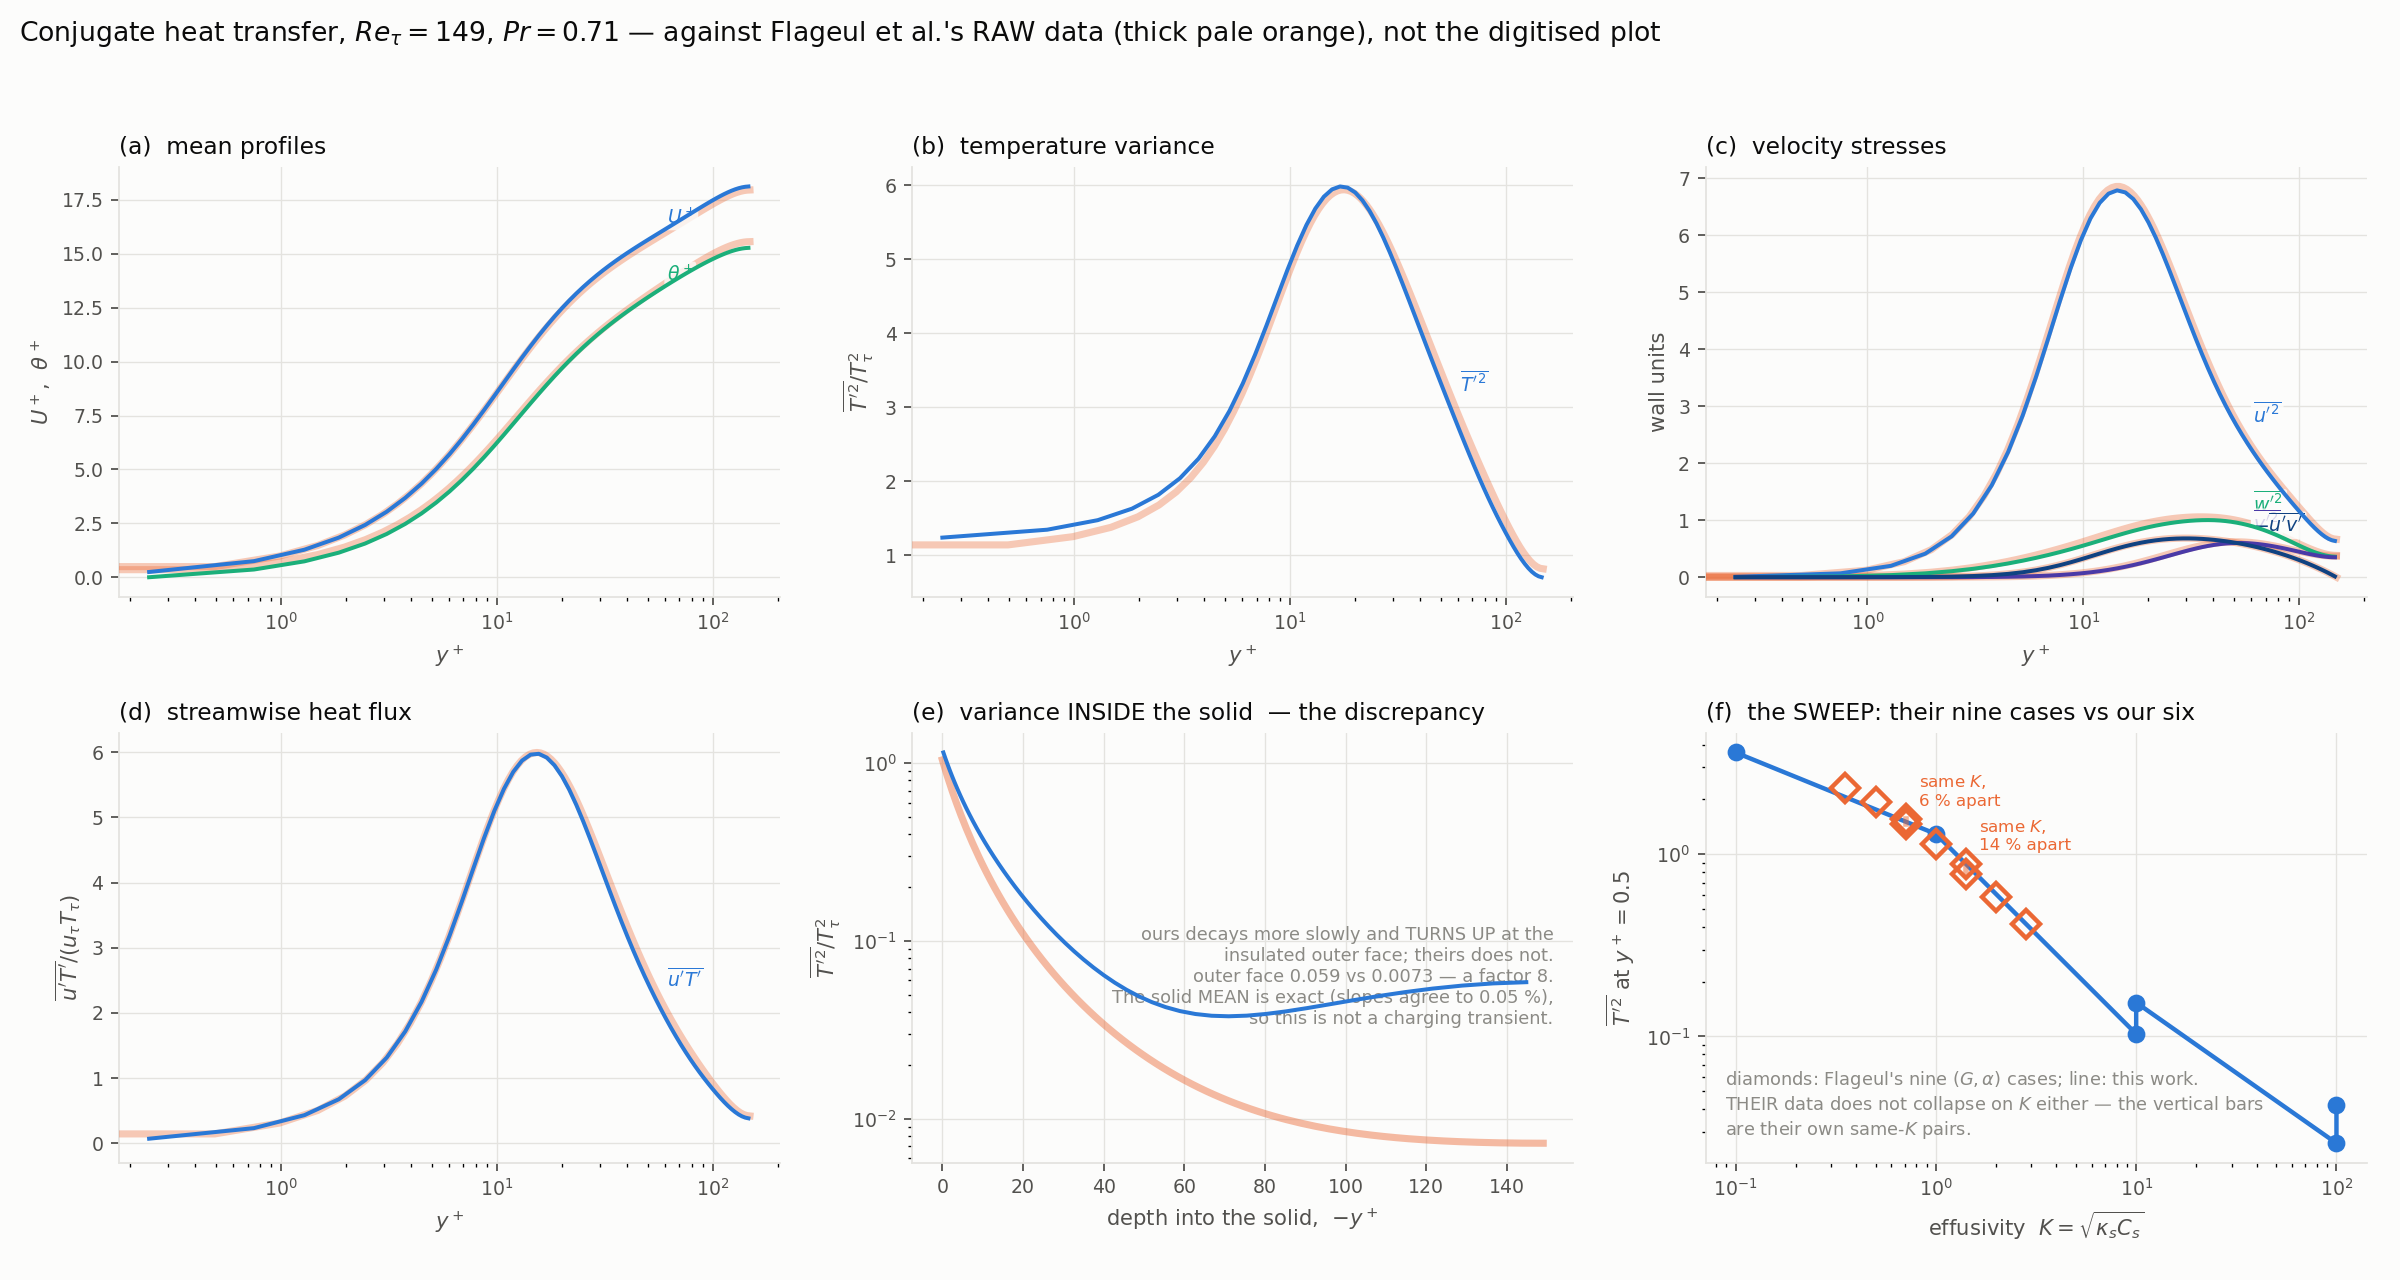
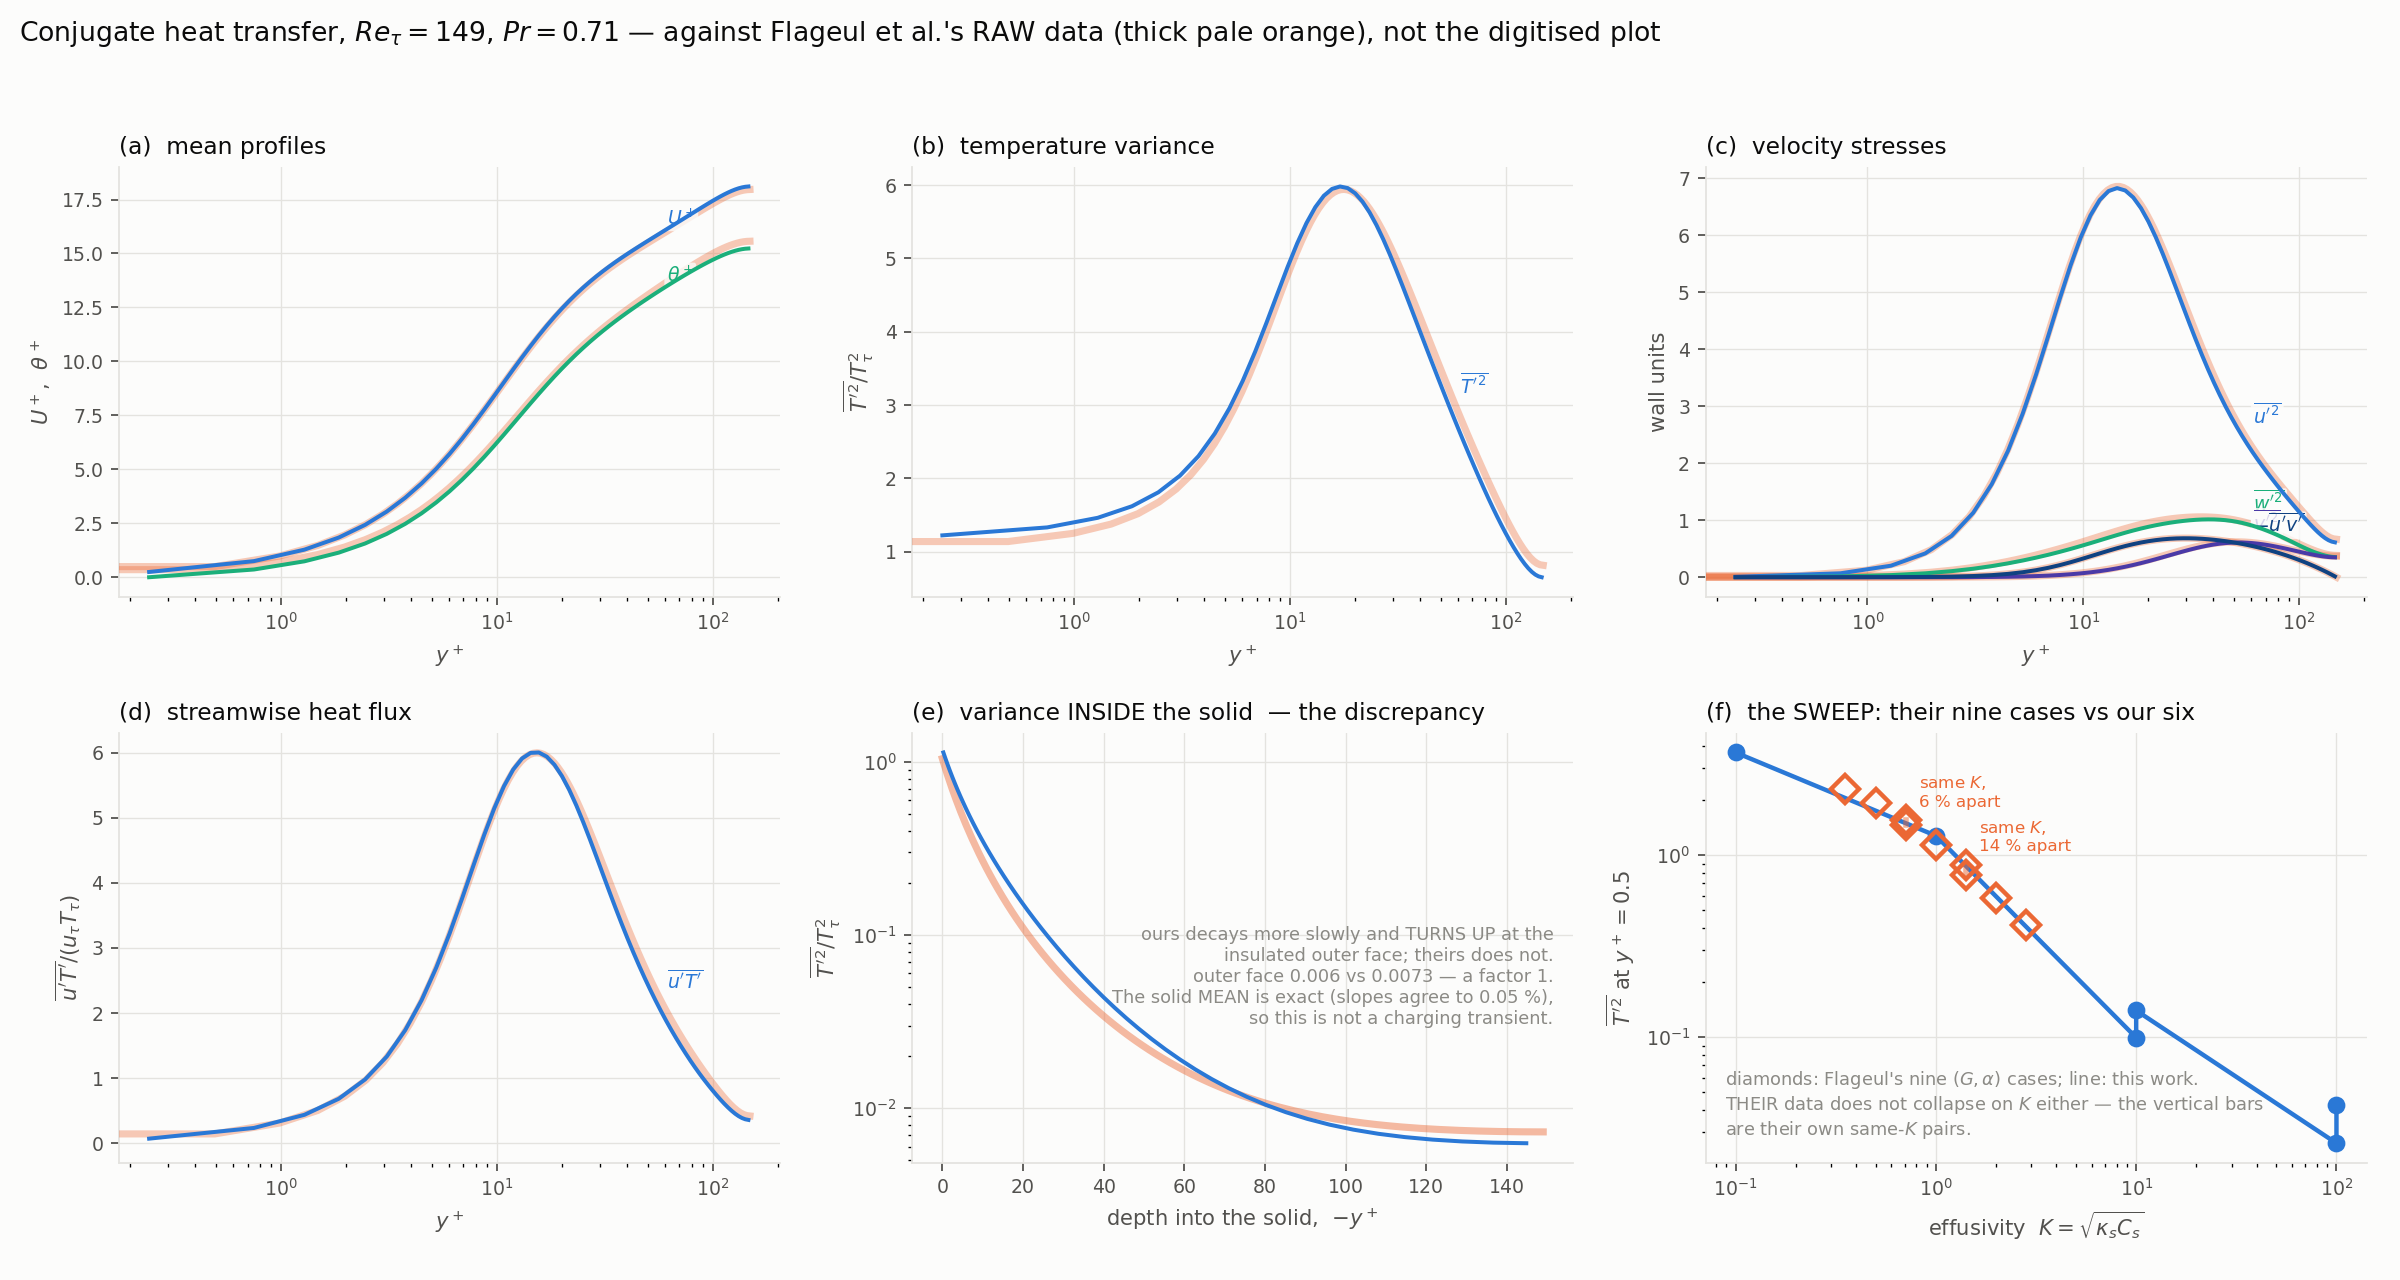
Conjugate CHT: the clean window fixes the deep solid
650 000 clean steps (101.5 h), window t = 20..219 = 29 684 wall units, matching
Flageul's 29 000, after reseeding every solid onto its exact steady mean and
correcting the 0.30 % flux imbalance.

THE DEEP-SOLID DISCREPANCY IS GONE:

    depth y+   contaminated    clean   Flageul   clean/theirs
       -77         0.0383     0.0113   0.0113       1.00
      -102         0.0465     0.0075   0.0083       0.90
      -145         0.0586     0.0063   0.0073       0.86

At the outer face the ratio falls from 8.0 to 0.86 -- now slightly BELOW theirs
-- and at y+ -77 it is exact. The user's diagnosis was right and mine was not:
it was the initial transient, with the window shorter than one solid diffusion
time, not 1/T sampling and not the box.

The flux-balance correction worked too: theta_tau is now kappa_s-independent to
0.003 % across the sweep, against 0.25 % before.

Against their RAW data the fluid side also improved -- U+ 0.5 -> 0.4 %, v'2
2.2 -> 1.8 %, w'2 4.3 -> 3.8 %, -u'v' 0.6 -> 0.4 % -- and the near-wall peak at
K = 1 is 5.98 against their 5.94, i.e. +0.7 %.

check_cht.py now takes the conjugate reference from their raw g1a1 rather than
the biased digitisation, and derives the reference peak from it, so the printed
comparison no longer inherits the +0.13 bias. The ideal brackets have no raw
counterpart and stay digitised, used only as brackets.

WHAT IS LEFT is near-wall, not deep: <T'2> +11 % at y+ 0.24 and wall/peak
[…]

diff --git a/validation/conjugate/cht/check_cht.py b/validation/conjugate/cht/check_cht.py
@@ -76,6 +76,15 @@ FLAGEUL = dict(re_tau=149, pr=0.71, peak=6.208, peak_yp=17.6)
 # ~0.2-0.4 in <T'^2> against 0.015 for the line (a symbol centroid is coarser);
 # each .dat header carries its own measured 5a-vs-5b agreement.
 HERE = os.path.dirname(os.path.abspath(__file__))
+# THE CONJUGATE CASE NOW COMES FROM THEIR RAW DATA, not from a digitisation of
+# their figure: that digitisation was biased HIGH (rms 0.15, bias +0.13, peak
+# 6.208 against the true 5.941), so comparing against it overstated every
+# "ours is low" by ~4.5 %. flageul_data/g1a1_fluct1.dat is their published
+# g1a1 -- kappa_s = alpha_s = C_s = K = 1, exactly our k1 -- with y+ in column
+# 0 and T'^2 in column 7. The two IDEAL brackets have no raw counterpart
+# (their repository publishes conjugate cases only), so those stay digitised
+# and are used only as brackets.
+RAW = os.path.join(HERE, "flageul_data", "g1a1_fluct1.dat")
 REF_DAT = os.path.join(HERE, "flageul_fig5a_conjug.dat")
 REF_BRACKET = dict(isoQ=os.path.join(HERE, "flageul_fig5a_isoq.dat"),
                    isoT=os.path.join(HERE, "flageul_fig5a_isot.dat"))
@@ -378,8 +387,17 @@ def cmd_thermal(a):
     print(f"\n   (4) vs Flageul et al. 2015 (Re_tau {f['re_tau']}, Pr {f['pr']}, "
           f"their figure 5; our Re_tau {RE:g}"
           f"{' -- MATCHED' if abs(RE - f['re_tau']) < 1 else ''})")
+    if os.path.exists(RAW):
+        _r = np.loadtxt(RAW)
+        ref = np.column_stack([_r[:, 0], _r[:, 7]])
+        ref_src = "their RAW g1a1 data"
+    elif os.path.exists(REF_DAT):
+        ref = np.loadtxt(REF_DAT)
+        ref_src = "digitised (BIASED +0.13; prefer the raw data)"
+    else:
+        ref, ref_src = None, "none"
+    print(f"       conjugate reference: {ref_src}")
     print(f"       quantity                          ours      Flageul")
-    ref = np.loadtxt(REF_DAT) if os.path.exists(REF_DAT) else None
     ypw_all = np.minimum(y - Y_LO, Y_HI - y) * RE
 
     def read_both(row, refdat):
@@ -447,17 +465,18 @@ def cmd_thermal(a):
     # five scalars that do peak near the wall all sit at 4.6-4.9.) This is the
     # same failure as taking max() over the fluid, one level down: an
     # aggregate over cases that are not the same quantity.
+    refpk = float(ref[:, 1].max()) if ref is not None else f["peak"]
     genuine = [r for r in rows if r["var_peak"] >= r["var_centre"] - 1e-12]
     excluded = [r["name"] for r in rows if r not in genuine]
     if genuine:
         lo = min(r["var_peak"] for r in genuine)
         hi = max(r["var_peak"] for r in genuine)
         print(f"       NEAR-WALL peak <theta'^2>, the {len(genuine)} scalars that "
-              f"HAVE one: {lo:.2f} - {hi:.2f}  {f['peak']:9.2f}")
+              f"HAVE one: {lo:.2f} - {hi:.2f}  {refpk:9.2f}")
     if "k1" in by:
         print(f"       ...of which k1 IS their case (kappa_s = alpha_s = 1): "
-              f"{by['k1']['var_peak']:8.2f}  {f['peak']:9.2f}"
-              f"   ({100*(by['k1']['var_peak']/f['peak']-1):+.0f} %)")
+              f"{by['k1']['var_peak']:8.2f}  {refpk:9.2f}"
+              f"   ({100*(by['k1']['var_peak']/refpk-1):+.1f} %)")
     if excluded:
         print(f"       EXCLUDED, no near-wall peak (variance still rising at the "
               f"centreline): {', '.join(excluded)} -- reported separately, not "

diff --git a/validation/conjugate/cht/README.md b/validation/conjugate/cht/README.md
@@ -1018,3 +1018,53 @@ predicted level drift, −7.5e-4 per time unit, matches the measured −9.3e-4.
 
 715 000 steps ≈ **112 h (4.7 days)**. The contaminated statistics are kept as
 `flageul_stats.h5` / `flageul_stats_311k.h5` for the before/after.
+
+## Result of the three-leg rerun (2026-09-14) — the deep solid is fixed
+
+650 000 clean steps, 101.5 h at 0.562 s/step, window t = 20 → 219 =
+**29 684 wall units**, matching their 29 000.
+
+**The deep-solid discrepancy is gone.**
+
+| depth y⁺ | contaminated | **clean** | Flageul | clean/theirs |
+|---|---|---|---|---|
+| −5 | 0.618 | 0.593 | 0.485 | 1.22 |
+| −40 | 0.064 | 0.044 | 0.034 | 1.28 |
+| −77 | 0.038 | **0.0113** | 0.0113 | **1.00** |
+| −102 | 0.047 | 0.0075 | 0.0083 | 0.90 |
+| −145 (outer face) | **0.0586** | **0.0063** | 0.0073 | **0.86** |
+
+At the outer face the ratio goes from 8.0 to **0.86** — now slightly BELOW
+theirs — and at y⁺ −77 it is exact. What remains is the solid within ~y⁺ 40 of
+the interface reading 22–28 % high, which is the fluid side's near-wall excess
+(+11 % at y⁺ 0.24) conducted inward, not a separate problem.
+
+**The flux-balance correction also worked**: θ_τ is now κ_s-independent to
+**0.003 %** across the sweep (it was 0.25 %), and J(centreline) is ~0.
+
+Against their RAW data, over 0.24 < y⁺ < 147:
+
+| quantity | clean | previous (contaminated) |
+|---|---|---|
+| U⁺ | **0.4 %** | 0.5 % |
+| θ⁺ | 1.2 % | 1.1 % |
+| u'² | **0.9 %** | 1.0 % |
+| v'² | **1.8 %** | 2.2 % |
+| w'² | **3.8 %** | 4.3 % |
+| −u'v' | **0.4 %** | 0.6 % |
+| u'T' | 1.3 % | 1.1 % |
+| T'² | 2.4 % | 2.2 % |
+| **near-wall peak, K = 1** | **5.98 vs 5.94 = +0.7 %** | — |
+
+`check_cht.py` now takes the conjugate reference from
+`flageul_data/g1a1_fluct1.dat` (their raw g1a1) rather than the biased
+digitisation, and derives the reference peak from it. The two IDEAL brackets
+have no raw counterpart — their repository publishes conjugate cases only — so
+those stay digitised and are used only as brackets.
+
+**What is left is one thing, and it is near-wall, not deep**: ⟨T'²⟩ is +11 % at
+y⁺ 0.24 and wall/peak is +10 %, i.e. a slightly FLATTER near-wall profile,
+while the peak itself is +0.7 % and the whole profile 2.4 %. It survived
+matching Δy⁺, the outer BC, the solid thickness and now the averaging window,
+so the remaining candidate is the DOMAIN: 1872 × 936 wall units against their
+3814 × 1270.
